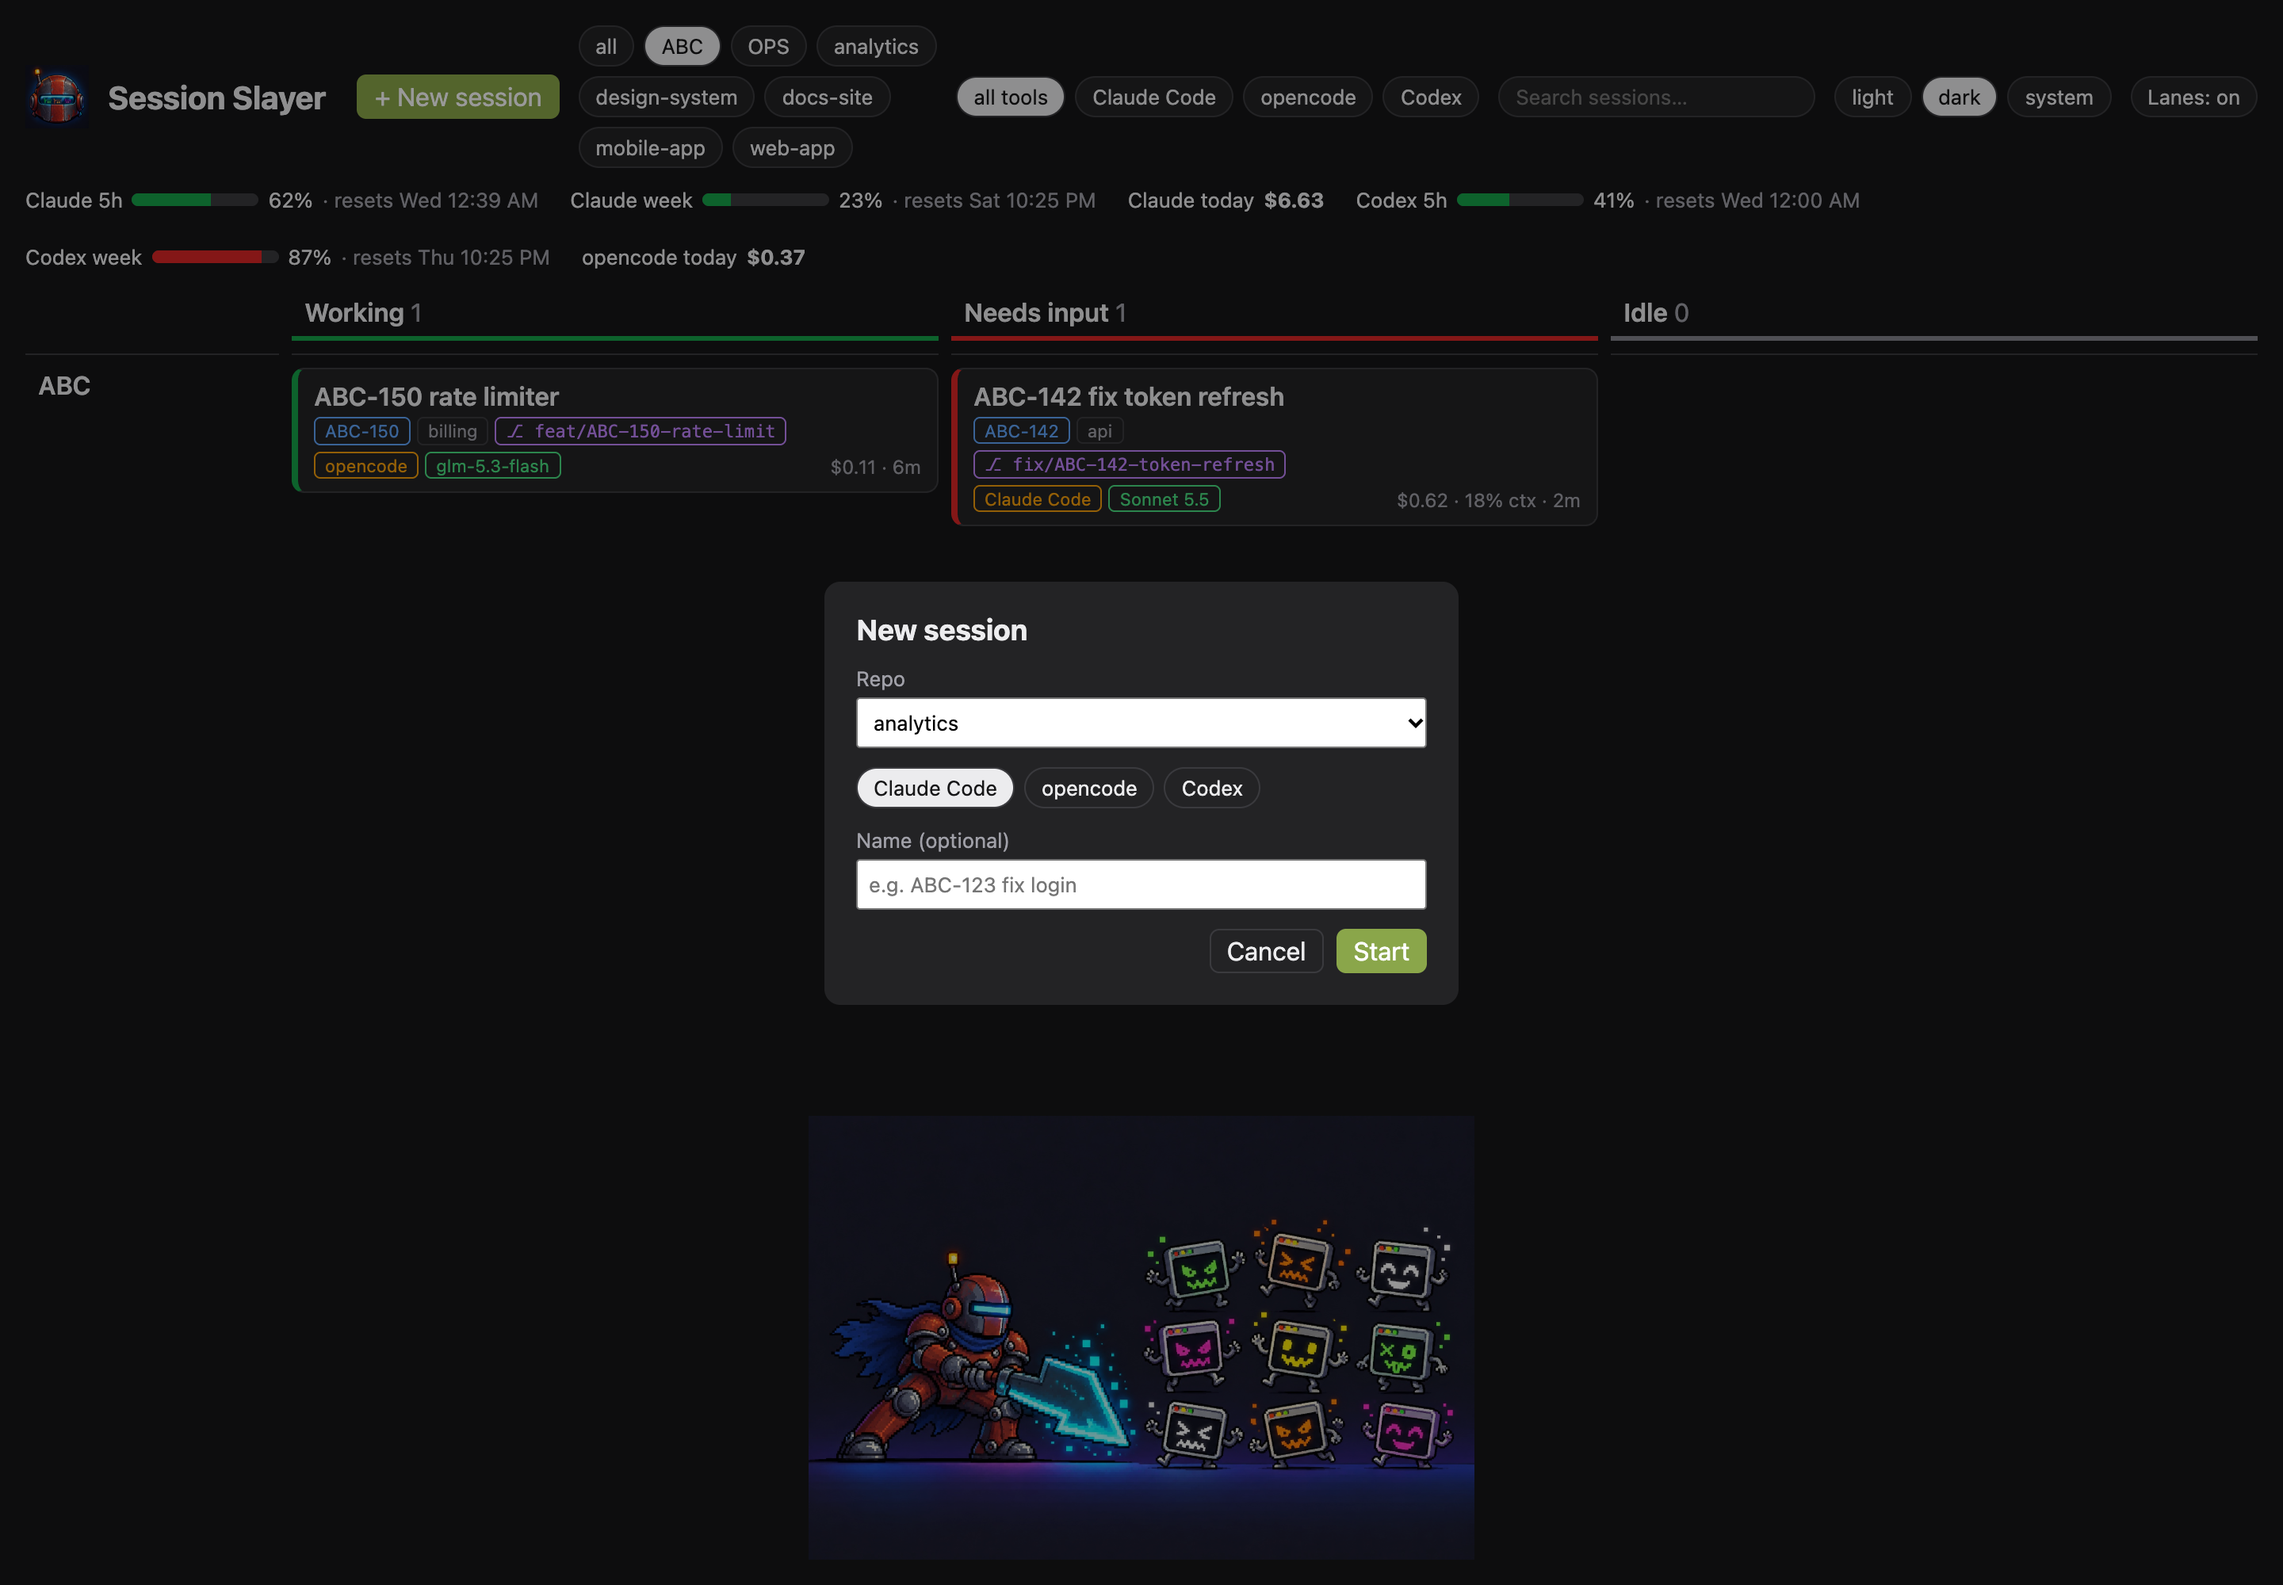
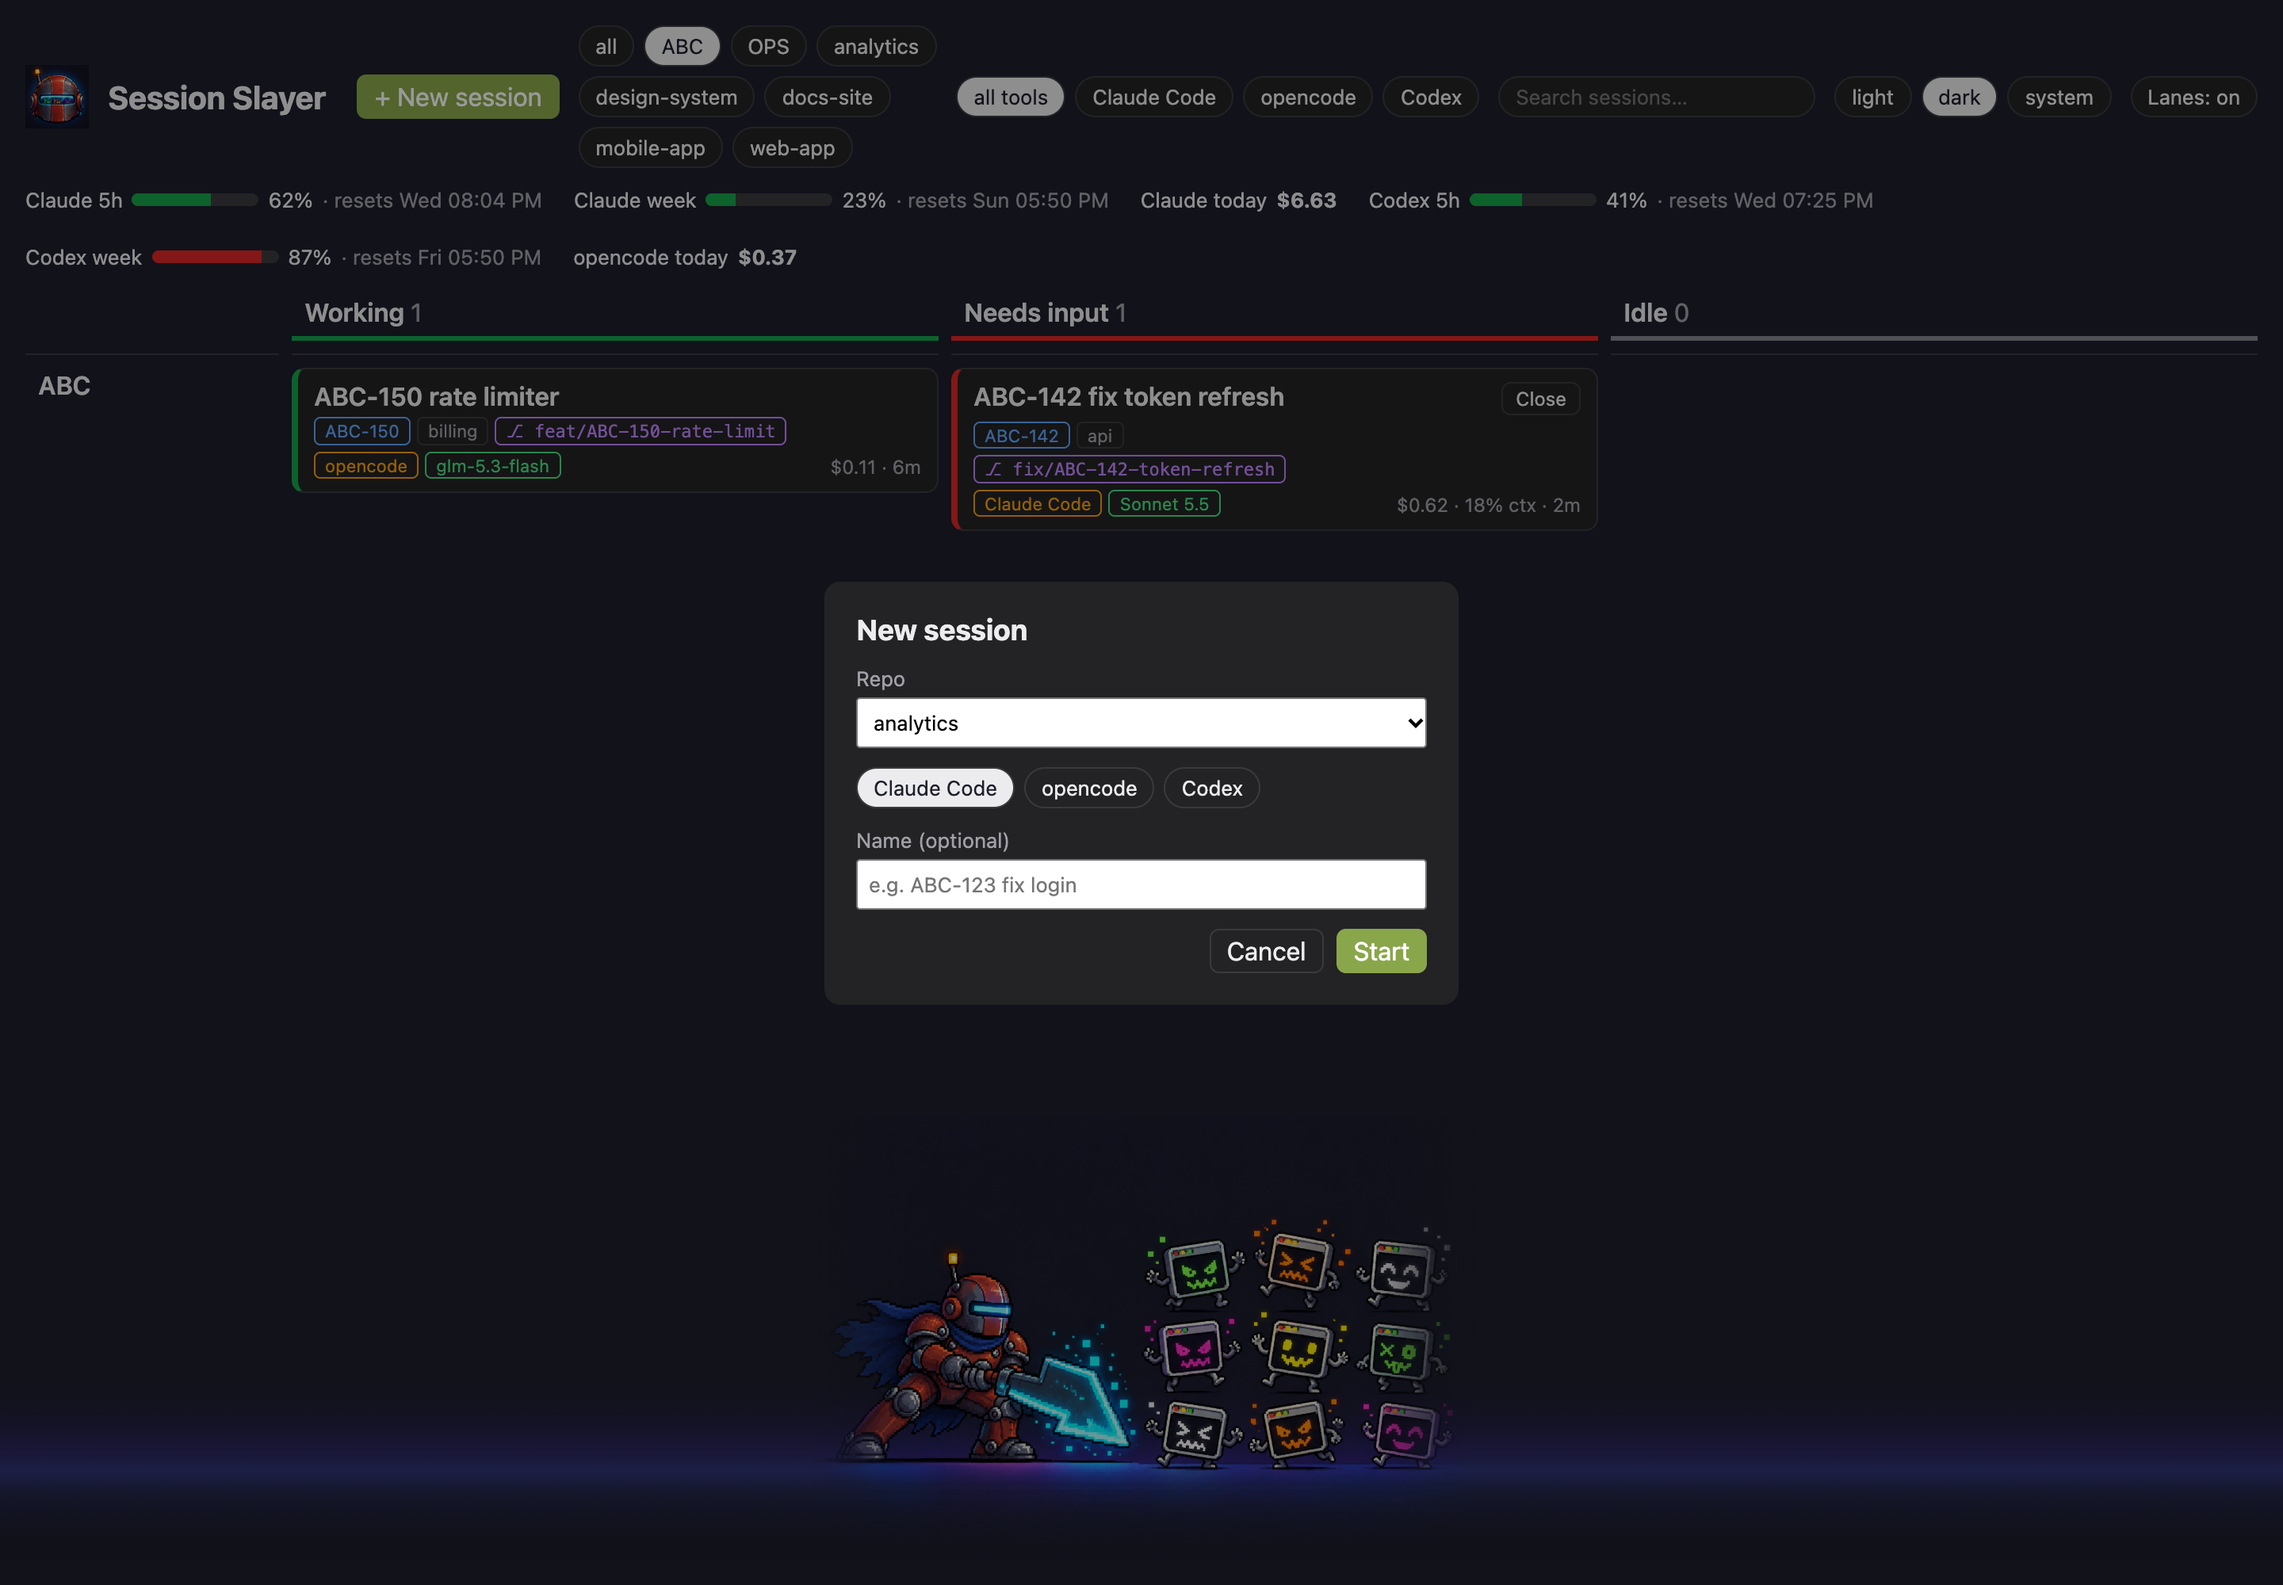
style: blend the horde picture into the page
A full-width strip behind the picture repeats its floor glow, and the picture's left, right and bottom edges fade into it (15% dark, 10% light).

diff --git a/web/style.css b/web/style.css
@@ -41,6 +41,7 @@
 body {
   margin: 0;
   background: var(--bg);
+  overflow-x: clip; /* the full-width horde band must not add a side scroll */
 }
 
 button {
@@ -479,11 +480,54 @@ h1 {
   flex: none;
 }
 
+.horde-band {
+  /* auto top margin pushes it to the bottom of the page when the board is short */
+  margin-top: auto;
+  padding-top: 32px;
+  /* full page width, so the floor glow runs past the picture's sides */
+  width: 100vw;
+  margin-left: calc(50% - 50vw);
+  /* the colours down the picture's left and right edges (horde_00), so the band and picture meet without a seam */
+  background: linear-gradient(
+      var(--bg) 60%,
+      #1e1e33 65%,
+      #222040 70%,
+      #2a2458 75%,
+      #2e3372 80%,
+      #222647 85%,
+      #1f2036 90%,
+      #1d1d2c 95%,
+      #1d1d2b 100%
+    )
+    bottom / 100% calc(100% - 32px) no-repeat;
+}
+
 .horde {
   display: block;
-  /* auto top margin pushes it to the bottom of the page when the board is short */
-  margin: auto auto 0;
-  padding-top: 32px;
+  margin: 0 auto;
   width: min(420px, 100%);
   height: auto;
+  /* fade the left, right and bottom edges into the band: floors sit at slightly different heights per picture */
+  --fade: linear-gradient(to right, transparent, #000 var(--fade-size), #000 calc(100% - var(--fade-size)), transparent),
+    linear-gradient(#000 calc(100% - var(--fade-size)), transparent);
+  --fade-size: 15%;
+  -webkit-mask-image: var(--fade);
+  -webkit-mask-composite: source-in;
+  mask-image: var(--fade);
+  mask-composite: intersect;
+}
+
+:root[data-theme="light"] .horde {
+  --fade-size: 10%; /* the light floor is pale, so a wide fade shows */
+}
+:root[data-theme="light"] .horde-band {
+  background-image: linear-gradient(var(--bg) 60%, #fcf8f7 65%, #f6f3fa 70%, #ebebfc 75%, #dee3fd 80%, #dee2fd 85%, #ebeafb 90%, #f2f1f9 95%, #f7f5f8 100%);
+}
+@media (prefers-color-scheme: light) {
+  :root:not([data-theme="dark"]) .horde {
+    --fade-size: 10%;
+  }
+  :root:not([data-theme="dark"]) .horde-band {
+    background-image: linear-gradient(var(--bg) 60%, #fcf8f7 65%, #f6f3fa 70%, #ebebfc 75%, #dee3fd 80%, #dee2fd 85%, #ebeafb 90%, #f2f1f9 95%, #f7f5f8 100%);
+  }
 }

diff --git a/web/App.tsx b/web/App.tsx
@@ -215,7 +215,9 @@ export function App() {
       </div>
       {!cards.length && <p className="empty">{q || filter ? 'No sessions match.' : 'No sessions. Start one with “+ New session”.'}</p>}
 
-      <img className="horde" src={hordeImage(board.cards.length, light)} alt={`${board.cards.length} sessions`} />
+      <div className="horde-band">
+        <img className="horde" src={hordeImage(board.cards.length, light)} alt={`${board.cards.length} sessions`} />
+      </div>
 
       {showNew && <NewSession onClose={() => setShowNew(false)} act={act} />}
     </div>
